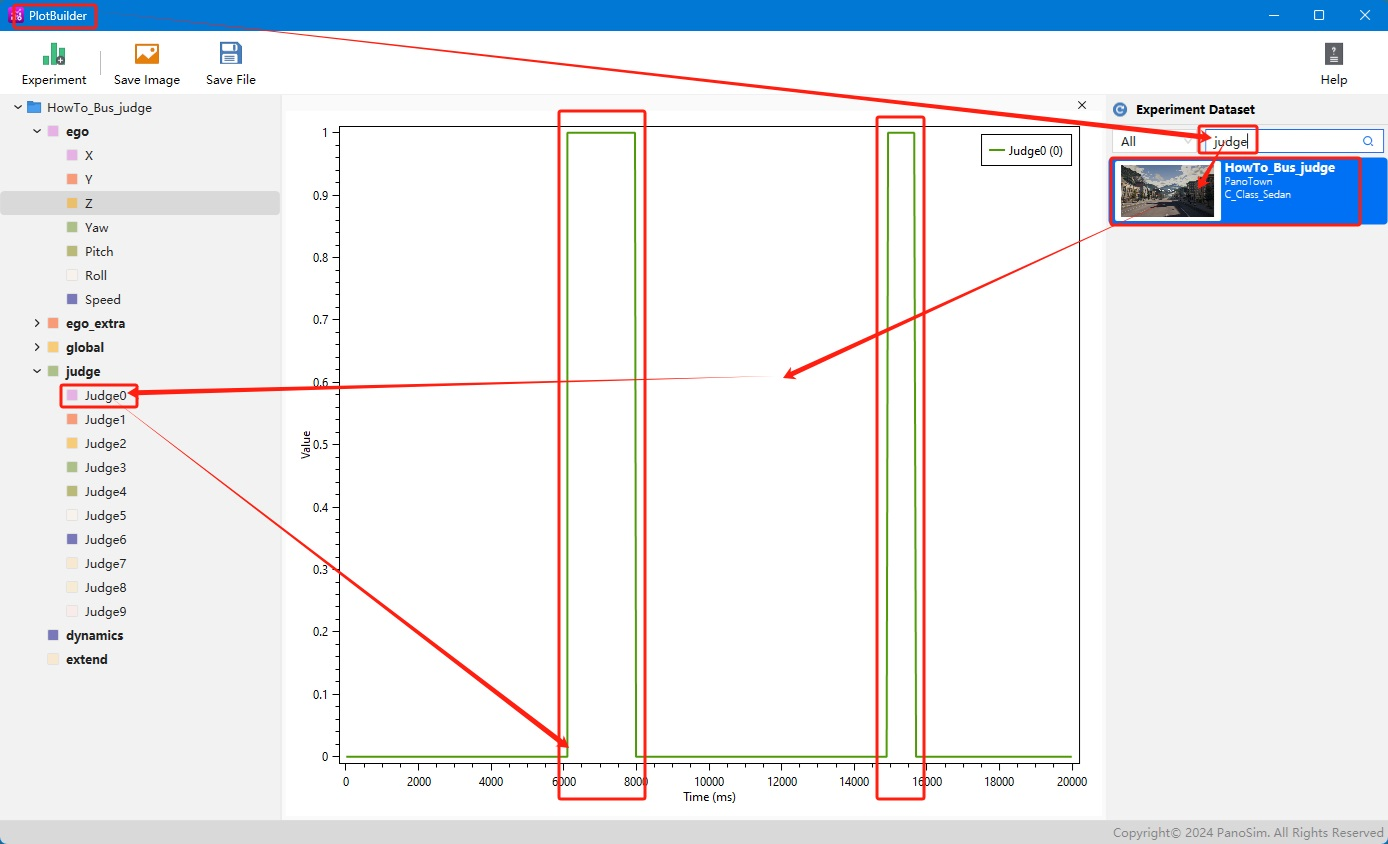
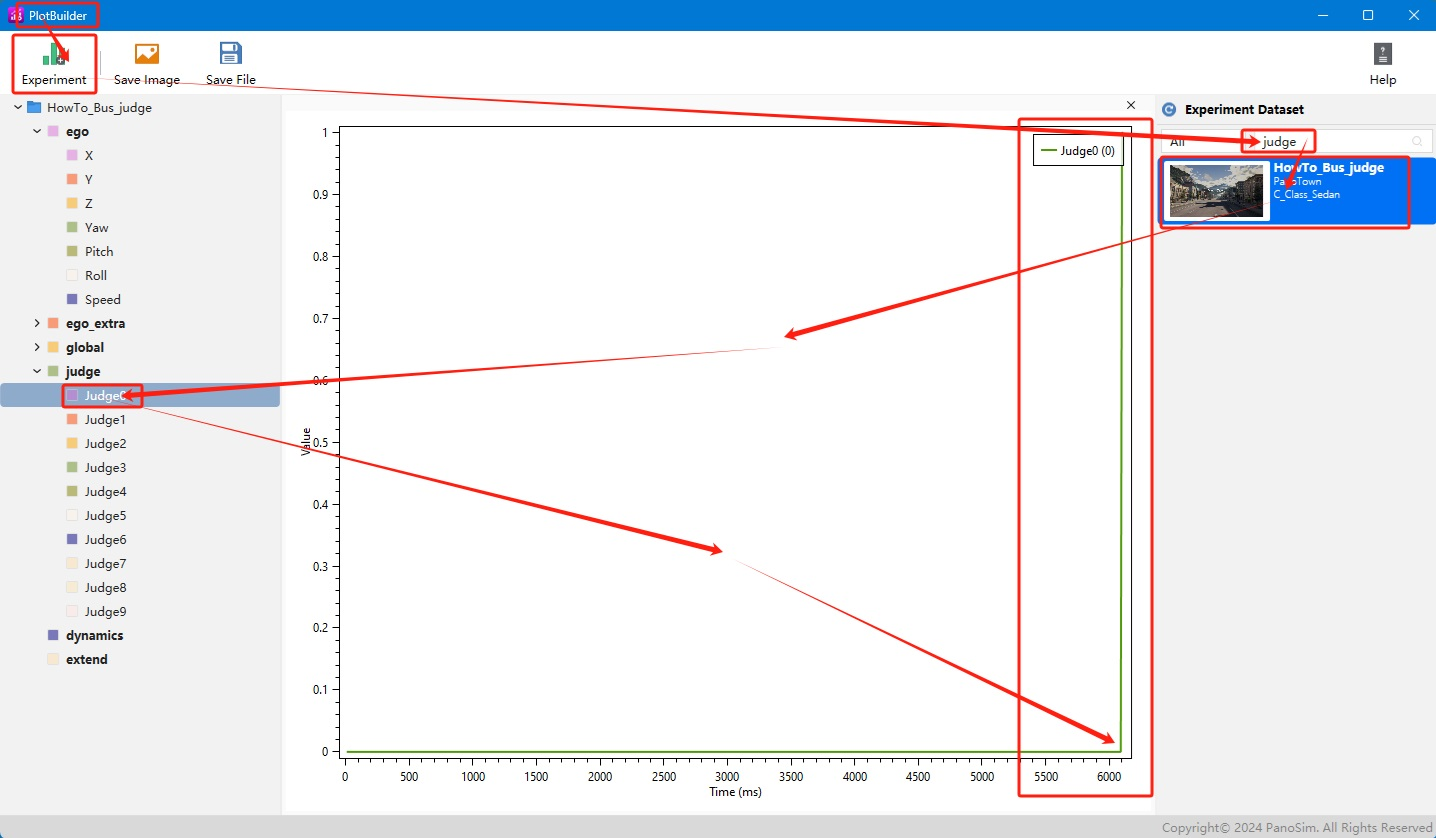
update Bus/judge

diff --git a/Bus/judge/PanoSimDatabase/Plugin/Agent/HowTo_Bus_judge.py b/Bus/judge/PanoSimDatabase/Plugin/Agent/HowTo_Bus_judge.py
@@ -26,6 +26,8 @@ def ModelStart(userData):
 def ModelOutput(userData):
     collision_event = 1 if check_collision(userData) else 0
     userData['judge'].writeHeader(*(userData['time'], collision_event))
+    if collision_event == 1:
+        stopSimulation()
 
 def ModelTerminate(userData):
     pass
